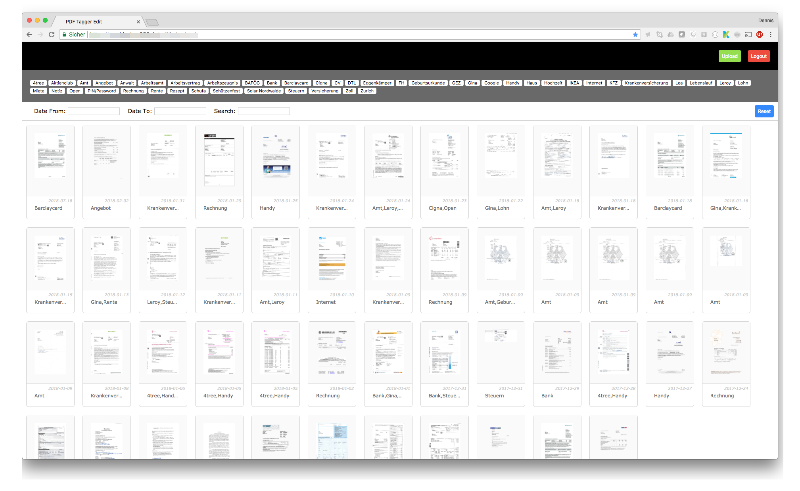
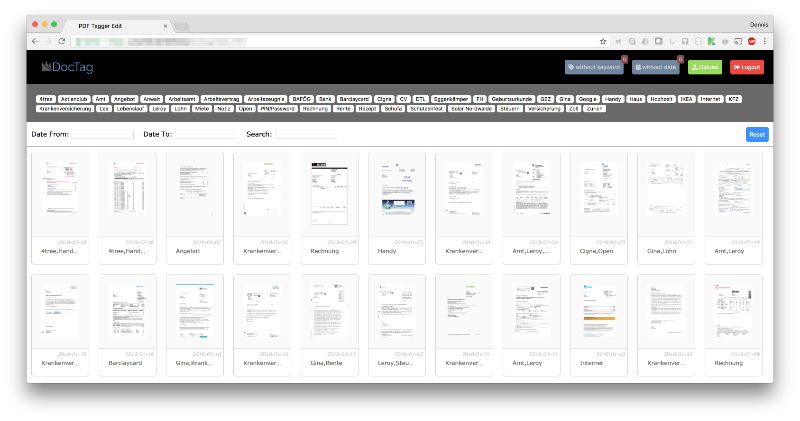
#11

diff --git a/index.html b/index.html
@@ -3,7 +3,7 @@
     <head>
         <meta charset="utf-8">
         <meta name="viewport" content="width=device-width, initial-scale=1">
-        <title>PDF Tagger Edit</title>
+        <title>DocTag</title>
         <link rel="stylesheet" href="css/jquery-ui.css">
         <link rel="stylesheet" href="css/fontawesome/fontawesome-all.css">
         <link rel="stylesheet" href="css/style.css">

diff --git a/upload.html b/upload.html
@@ -3,7 +3,7 @@
 <head>
     <meta charset="utf-8">
     <meta name="viewport" content="width=device-width, initial-scale=1">
-    <title>PDF Tagger Edit</title>
+    <title>DocTag</title>
     <link rel="stylesheet" href="css/jquery-ui.css">
     <link rel="stylesheet" href="css/style.css">
     <link rel="stylesheet" href="css/upload.css">

diff --git a/edit.html b/edit.html
@@ -3,7 +3,7 @@
 <head>
     <meta charset="utf-8">
     <meta name="viewport" content="width=device-width, initial-scale=1">
-    <title>PDF Tagger Edit</title>
+    <title>DocTag</title>
     <link rel="stylesheet" href="css/jquery-ui.css">
     <link rel="stylesheet" href="css/style.css">
     <link rel="stylesheet" href="css/edit.css">

diff --git a/README.md b/README.md
@@ -5,8 +5,12 @@ doctag is a document management software that will simplify your work and yield 
 Keep the overview of all your documents, only upload and tag it with the most important keywords and a date.
 
 Overview page: 
-![main screen](https://github.com/lordzeroMS/doctag/blob/master/images/doctag-s1.png)
+![doc main screen](https://github.com/lordzeroMS/doctag/blob/master/images/doctag-s1.png)
 
 
 Detail page:
 ![doc detail screen](https://github.com/lordzeroMS/doctag/blob/master/images/doctag-s2.png)
+
+
+Upload page:
+![doc upload screen](https://github.com/lordzeroMS/doctag/blob/master/images/doctag-s3.png)
